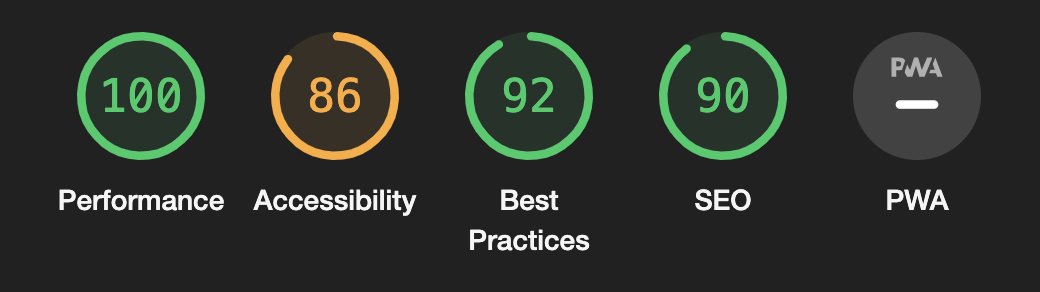
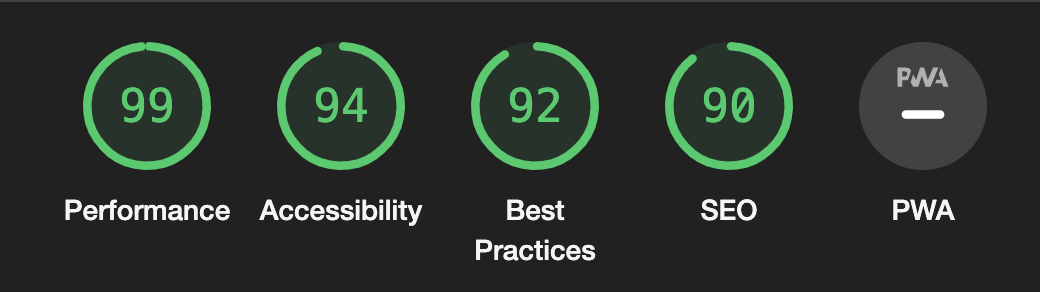
added final scores to readme

diff --git a/README.md b/README.md
@@ -270,13 +270,23 @@ Mobile:
 
 1.List items li are not contained within ul, ol or menu parent elements.
 
-Pre final lighthouse testing:
 
+
+Pre final lighthouse testing:
+<p>After sorting out some of the accessibility out i was able to improve my score</p>
+---
+<h3 align="center">Desktop</h3>
 ![Pre-Final Lighthouse Testing for Desktop  Page](assets/readme-images/lighthouse-desktop-precompleted.png)
+<h3 align="center">Mobile</h3>
 ![Pre-Final Lighthouse Testing for Mobile  Page](assets/readme-images/lighthouse-mobile.png)
 
-
+---
 
 Final lighthouse testing:
+
+<h3 align="center">Desktop</h3>
+
 ![Final Lighthouse Testing for Desktop  Page](assets/readme-images/lighthouse-final-desktop.png)
+
+<h3 align="center">Mobile</h3>
 ![Final Lighthouse Testing for Mobile  Page](assets/readme-images/lighthouse-final-mobile.png)
